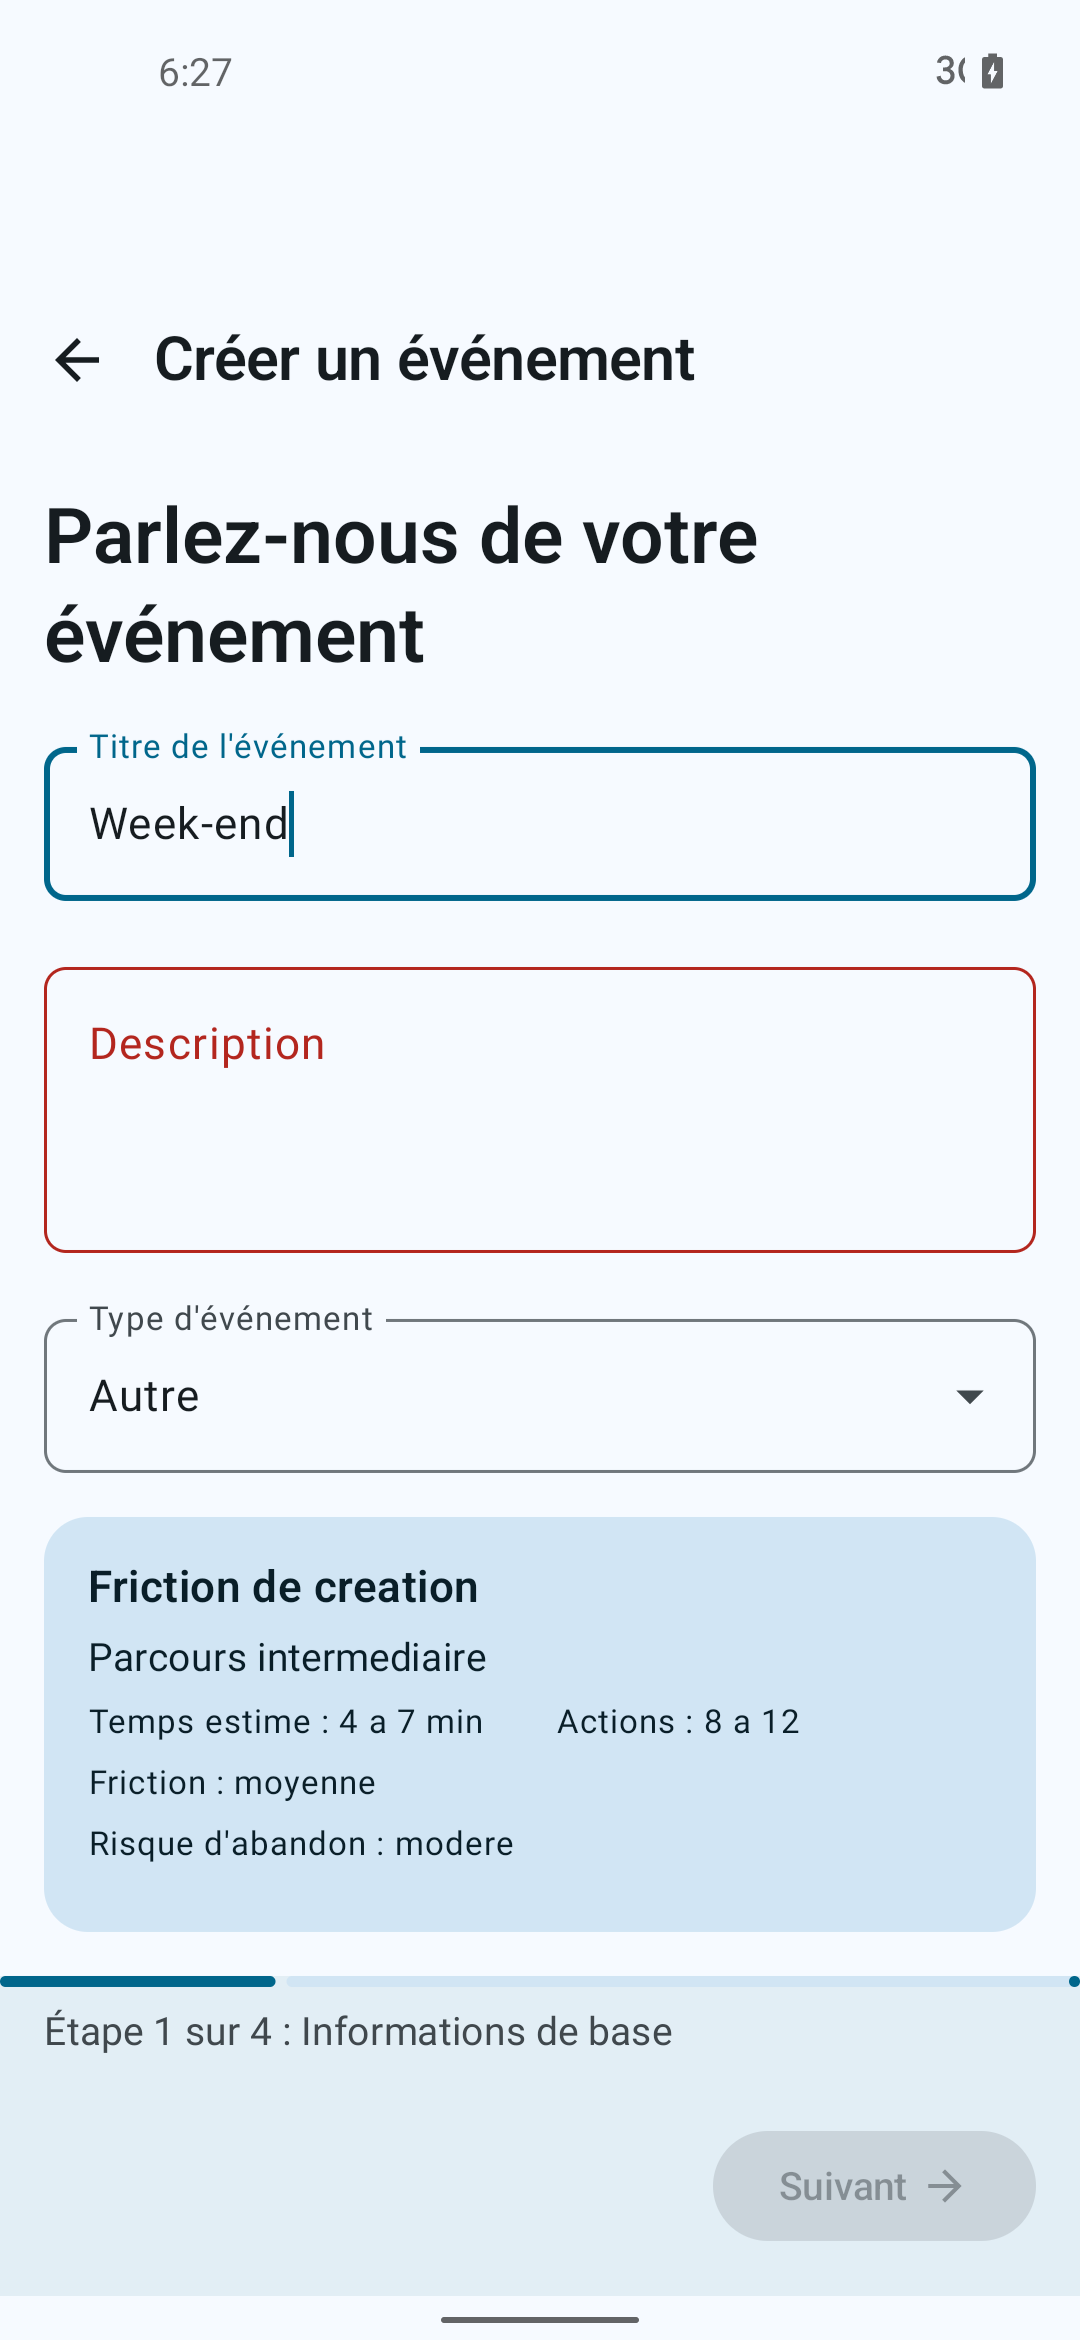
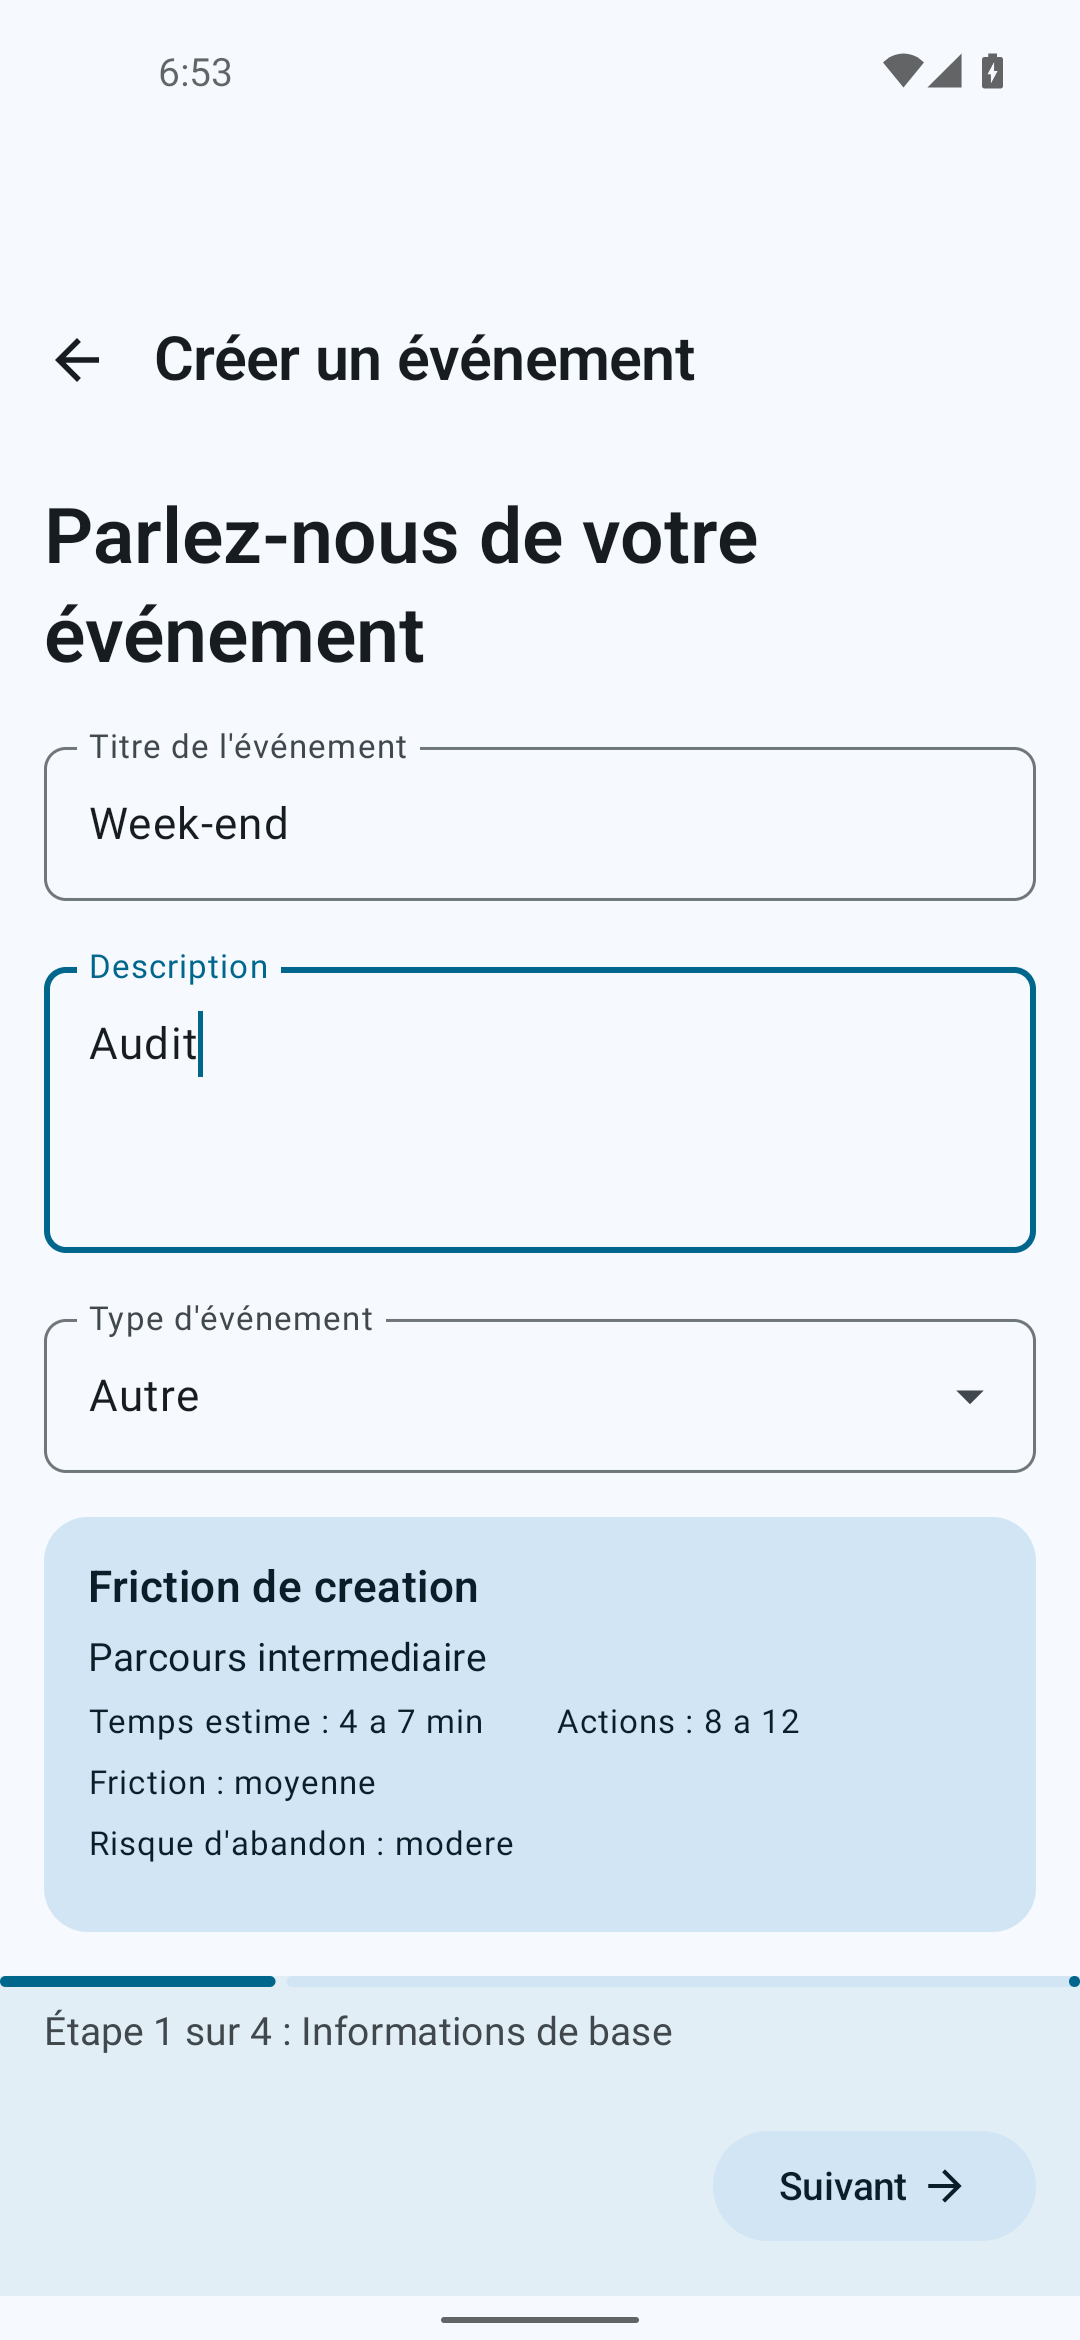
feat(android): migrate detail + poll results to unified header, add QA dev-auth bypass
Follow-ups from Android audit (DAO #24/#25 findings F2/F3 + tooling):

- EventDetailScreen: TopAppBar replaced by WakeveScreenHeader —
  display title, event title as subtitle, share/edit/delete actions
  in trailing slot (DAO #24)
- PollResultsScreen: WakeveScaffold replaced by WakeveScreenHeader
  (duplicate event title text removed, subtitle instead);
  RecommendedSlotCard now uses WakeveHeroCard with star icon
  (DAO #25, redondance A1); WakeveHeroCard extended with optional
  onClick
- QA tooling: DEBUG-only intent extra wakeve.dev.auth triggers
  Intent.SkipToGuest + onboarding completion for headless launches
  (adb shell am start --ez wakeve.dev.auth true) — verified on
  emulator: lands directly on Home
- Audit report updated: F2 corrected (poll screens exist on Android,
  now migrated), F3 done, tooling done

538 unit tests: only the 4 pre-existing develop failures.

diff --git a/composeApp/src/commonMain/kotlin/com/guyghost/wakeve/EventDetailScreen.kt b/composeApp/src/commonMain/kotlin/com/guyghost/wakeve/EventDetailScreen.kt
@@ -58,6 +58,7 @@ import com.guyghost.wakeve.presentation.state.EventManagementContract
 import com.guyghost.wakeve.ui.components.HeroImageSection
 import com.guyghost.wakeve.ui.designsystem.WakeveCard
 import com.guyghost.wakeve.ui.designsystem.WakeveProgressIndicator
+import com.guyghost.wakeve.ui.designsystem.WakeveScreenHeader
 import com.guyghost.wakeve.ui.designsystem.WakeveSize
 import com.guyghost.wakeve.ui.designsystem.WakeveSpacing
 import com.guyghost.wakeve.ui.designsystem.WakeveStateMessage
@@ -258,44 +259,46 @@ fun EventDetailContent(
 ) {
     val event = state.event
     Scaffold(
-        topBar = {
-            TopAppBar(
-                title = { Text("Détails de l'événement") },
-                navigationIcon = {
-                    IconButton(onClick = onNavigateBack) {
-                        Icon(Icons.AutoMirrored.Filled.ArrowBack, contentDescription = "Retour")
-                    }
-                },
-                actions = {
-                    // Share / Invite button (always visible)
-                    IconButton(
-                        onClick = {
-                            val title = event?.title ?: ""
-                            onShareInvite?.invoke(state.eventId, title)
-                        }
-                    ) {
-                        Icon(Icons.Default.Share, contentDescription = "Partager l'invitation")
-                    }
-                    if (state.isOrganizer) {
-                        IconButton(onClick = { onNavigateTo("edit_event/${state.eventId}") }) {
-                            Icon(Icons.Default.Edit, contentDescription = "Éditer")
-                        }
-                    }
-                    if (state.canDelete) {
+        modifier = modifier
+    ) { paddingValues ->
+        Column(modifier = Modifier.fillMaxSize()) {
+            // En-tête standard (DAO #24) — grand titre + sous-titre contexte événement
+            WakeveScreenHeader(
+                title = "Détails de l'événement",
+                subtitle = event?.title,
+                onClose = onNavigateBack,
+                trailing = {
+                    Row {
+                        // Share / Invite button (always visible)
                         IconButton(
-                            onClick = onRequestDelete,
-                            modifier = Modifier.semantics {
-                                contentDescription = "Supprimer l'événement. Action irréversible."
-                                role = Role.Button
+                            onClick = {
+                                val title = event?.title ?: ""
+                                onShareInvite?.invoke(state.eventId, title)
                             }
                         ) {
-                            Icon(Icons.Default.Delete, contentDescription = null)
+                            Icon(Icons.Default.Share, contentDescription = "Partager l'invitation")
+                        }
+                        if (state.isOrganizer) {
+                            IconButton(onClick = { onNavigateTo("edit_event/${state.eventId}") }) {
+                                Icon(Icons.Default.Edit, contentDescription = "Éditer")
+                            }
+                        }
+                        if (state.canDelete) {
+                            IconButton(
+                                onClick = onRequestDelete,
+                                modifier = Modifier.semantics {
+                                    contentDescription = "Supprimer l'événement. Action irréversible."
+                                    role = Role.Button
+                                }
+                            ) {
+                                Icon(Icons.Default.Delete, contentDescription = null)
+                            }
                         }
                     }
                 }
             )
-        }
-    ) { paddingValues ->
+
+            Box(modifier = Modifier.fillMaxSize().padding(paddingValues)) {
         if (event == null) {
             // Loading or not found state
             Box(
@@ -517,6 +520,8 @@ fun EventDetailContent(
                     }
                 }
             }
+        }
+        }
         }
     }
 }

diff --git a/composeApp/src/commonMain/kotlin/com/guyghost/wakeve/PollResultsScreen.kt b/composeApp/src/commonMain/kotlin/com/guyghost/wakeve/PollResultsScreen.kt
@@ -1,5 +1,6 @@
 package com.guyghost.wakeve
 
+import androidx.compose.foundation.background
 import androidx.compose.foundation.layout.Arrangement
 import androidx.compose.foundation.layout.Box
 import androidx.compose.foundation.layout.Column
@@ -18,6 +19,7 @@ import androidx.compose.material.icons.filled.CalendarMonth
 import androidx.compose.material.icons.filled.Check
 import androidx.compose.material.icons.filled.Close
 import androidx.compose.material.icons.filled.QuestionMark
+import androidx.compose.material.icons.filled.Star
 import androidx.compose.material3.AlertDialog
 import androidx.compose.material3.AssistChip
 import androidx.compose.material3.Button
@@ -32,8 +34,9 @@ import androidx.compose.ui.Modifier
 import androidx.compose.ui.platform.testTag
 import com.guyghost.wakeve.ui.designsystem.WakeveButtonGroup
 import com.guyghost.wakeve.ui.designsystem.WakeveCard
+import com.guyghost.wakeve.ui.designsystem.WakeveHeroCard
 import com.guyghost.wakeve.ui.designsystem.WakeveProgressIndicator
-import com.guyghost.wakeve.ui.designsystem.WakeveScaffold
+import com.guyghost.wakeve.ui.designsystem.WakeveScreenHeader
 import com.guyghost.wakeve.ui.designsystem.WakeveSize
 import com.guyghost.wakeve.ui.designsystem.WakeveSpacing
 import com.guyghost.wakeve.ui.designsystem.WakeveStateMessage
@@ -82,23 +85,25 @@ fun PollResultsScreen(
         )
     }
 
-    WakeveScaffold(
-        title = "Résultats du sondage",
-        onNavigateBack = onBack,
-        modifier = modifier.testTag("poll_results_screen")
-    ) { paddingValues ->
+    Column(
+        modifier = modifier
+            .fillMaxSize()
+            .background(MaterialTheme.colorScheme.background)
+    ) {
+        // En-tête standard (DAO #24) — grand titre + sous-titre contexte événement
+        WakeveScreenHeader(
+            title = "Résultats du sondage",
+            subtitle = state.eventTitle,
+            onClose = onBack,
+            modifier = Modifier.padding(top = WakeveSpacing.sm)
+        )
+
         Column(
             modifier = Modifier
                 .fillMaxSize()
-                .padding(paddingValues)
                 .padding(WakeveSpacing.md),
             verticalArrangement = Arrangement.spacedBy(WakeveSpacing.md)
         ) {
-            Text(
-                text = state.eventTitle,
-                style = MaterialTheme.typography.headlineSmall,
-                color = MaterialTheme.colorScheme.onSurface
-            )
             Text(
                 text = if (state.isOrganizer) {
                     "Choisissez le créneau final à partir des votes."
@@ -232,24 +237,31 @@ private fun RecommendedSlotCard(
     onSelect: () -> Unit,
     modifier: Modifier = Modifier
 ) {
-    WakeveCard(
-        selected = true,
+    // Carte héro « info confirmée » (DAO #25) : le meilleur créneau du sondage
+    WakeveHeroCard(
         onClick = onSelect,
         modifier = modifier.fillMaxWidth()
     ) {
-        Column(verticalArrangement = Arrangement.spacedBy(WakeveSpacing.md)) {
+        Row(
+            horizontalArrangement = Arrangement.spacedBy(WakeveSpacing.sm)
+        ) {
+            Icon(
+                imageVector = Icons.Default.Star,
+                contentDescription = null,
+                tint = MaterialTheme.colorScheme.secondary
+            )
             Text(
                 text = "Créneau recommandé",
                 style = MaterialTheme.typography.titleMedium,
-                color = MaterialTheme.colorScheme.onSecondaryContainer
-            )
-            SlotTimeRange(slot = slot)
-            ScoreBreakdown(slot = slot)
-            Text(
-                text = "Score ${slot.totalScore}",
-                style = MaterialTheme.typography.bodyMedium
+                color = MaterialTheme.colorScheme.onSurface
             )
         }
+        SlotTimeRange(slot = slot)
+        ScoreBreakdown(slot = slot)
+        Text(
+            text = "Score ${slot.totalScore}",
+            style = MaterialTheme.typography.bodyMedium
+        )
     }
 }
 

diff --git a/composeApp/src/commonMain/kotlin/com/guyghost/wakeve/ui/designsystem/WakeveComponents.kt b/composeApp/src/commonMain/kotlin/com/guyghost/wakeve/ui/designsystem/WakeveComponents.kt
@@ -315,24 +315,44 @@ fun WakeveCard(
 @Composable
 fun WakeveHeroCard(
     modifier: Modifier = Modifier,
+    onClick: (() -> Unit)? = null,
     content: @Composable ColumnScope.() -> Unit
 ) {
-    Card(
-        modifier = modifier,
-        shape = RoundedCornerShape(20.dp),
-        colors = CardDefaults.cardColors(
-            containerColor = Color.White,
-            contentColor = MaterialTheme.colorScheme.onSurface
-        ),
-        border = BorderStroke(2.dp, WakeveWarning.copy(alpha = 0.3f)),
-        elevation = CardDefaults.cardElevation(defaultElevation = WakeveElevation.level1)
-    ) {
+    val colors = CardDefaults.cardColors(
+        containerColor = Color.White,
+        contentColor = MaterialTheme.colorScheme.onSurface
+    )
+    val shape = RoundedCornerShape(20.dp)
+    val border = BorderStroke(2.dp, WakeveWarning.copy(alpha = 0.3f))
+    val elevation = CardDefaults.cardElevation(defaultElevation = WakeveElevation.level1)
+    val heroContent: @Composable () -> Unit = {
         Column(
             modifier = Modifier
                 .padding(20.dp)
                 .fillMaxWidth(),
             verticalArrangement = Arrangement.spacedBy(16.dp),
             content = content
+        )
+    }
+
+    if (onClick != null) {
+        Card(
+            onClick = onClick,
+            modifier = modifier,
+            shape = shape,
+            colors = colors,
+            border = border,
+            elevation = elevation,
+            content = { heroContent() }
+        )
+    } else {
+        Card(
+            modifier = modifier,
+            shape = shape,
+            colors = colors,
+            border = border,
+            elevation = elevation,
+            content = { heroContent() }
         )
     }
 }

diff --git a/composeApp/src/androidMain/kotlin/com/guyghost/wakeve/App.kt b/composeApp/src/androidMain/kotlin/com/guyghost/wakeve/App.kt
@@ -17,6 +17,7 @@ import androidx.compose.ui.platform.LocalContext
 import androidx.compose.ui.platform.LocalUriHandler
 import androidx.compose.ui.tooling.preview.Preview
 import androidx.navigation.compose.rememberNavController
+import com.guyghost.wakeve.auth.shell.statemachine.AuthContract
 import com.guyghost.wakeve.auth.shell.statemachine.AuthStateMachine
 import com.guyghost.wakeve.deeplink.AndroidInvitationDeepLinkService
 import com.guyghost.wakeve.deeplink.AndroidNavigationDeepLinkHandler
@@ -108,6 +109,24 @@ fun App() {
     // Check onboarding status on first composition
     LaunchedEffect(Unit) {
         hasOnboarded = hasCompletedOnboarding(context)
+    }
+
+    // QA headless launch — équivalent Android de --wakeve-debug-authenticated (iOS).
+    // Usage : adb shell am start ... --ez wakeve.dev.auth true
+    // DEBUG uniquement : passe par le chemin guest officiel de la state machine
+    // (Intent.SkipToGuest) et marque l'onboarding complet pour atterrir sur Home.
+    LaunchedEffect(Unit) {
+        val isDebuggableBuild =
+            (context.applicationInfo.flags and android.content.pm.ApplicationInfo.FLAG_DEBUGGABLE) != 0
+        if (isDebuggableBuild) {
+            val activity = context as? android.app.Activity
+            val requested = activity?.intent?.getBooleanExtra("wakeve.dev.auth", false) == true
+            if (requested) {
+                authStateMachine.handleIntent(AuthContract.Intent.SkipToGuest)
+                markOnboardingComplete(context)
+                hasOnboarded = true
+            }
+        }
     }
 
     // Handle deep links from DeepLinkStateManager

diff --git a/docs/reviews/android-compose-audit-2026-09-07.md b/docs/reviews/android-compose-audit-2026-09-07.md
@@ -95,6 +95,8 @@ leur consommation s'étendra avec l'implémentation des écrans manquants.
 | # | Sévérité | Action | Prérequis |
 |---|---|---|---|
 | F1 | ✅ Arbitré | **O3 retenu** — dynamic color conservé ; AC #27 rescopée iOS ; tokens WarmIvory maintenus comme base schéma fixe/fallback | — |
-| F2 | Information | Implémentation des écrans poll/résultats Android (DAO séparé) | Backlog produit |
-| F3 | Mineure | Migrer `EventWorkspaceScreen` vers `WakeveScreenHeader` | Flux événement testable |
-| — | Note | Ajouter un `--wakeve-debug-authenticated` équivalent Android pour des QA headless | Backlog QA tooling |
+| F2 | ✅ Corrigé (nuancé) | **Les écrans poll VOTE/RÉSULTATS existent** sur Android (`PollVotingScreen`, `PollResultsScreen`) — l'audit initial était trop pessimiste : ils n'étaient pas migrés vers les composants DAO. Migration faite (voir F2-bis) ; reste à capturer avec des données | Cycle QA avec seed |
+| F2-bis | ✅ Fait | `PollResultsScreen` : `WakeveScaffold` → `WakeveScreenHeader` (sous-titre `event.title`) ; `RecommendedSlotCard` → `WakeveHeroCard` (bordure dorée + étoile, redondance A1) ; composant `WakeveHeroCard` étendu avec `onClick` optionnel | — |
+| F3 | ✅ Fait | `EventDetailScreen` : `TopAppBar` → `WakeveScreenHeader` (grand titre, sous-titre `event.title`, actions partager/éditer/supprimer en trailing) | — |
+| — | ✅ Fait | Bypass auth dev Android : extra d'intent `wakeve.dev.auth` (DEBUG uniquement) → `Intent.SkipToGuest` + onboarding marqué ; usage : `adb shell am start -n com.guyghost.wakeve/.MainActivity --ez wakeve.dev.auth true` | — |
+| — | Note | Écrans d'invitation iOS (information, archive, studio) sans équivalent Android : DAO séparé si besoin produit | Backlog produit |
